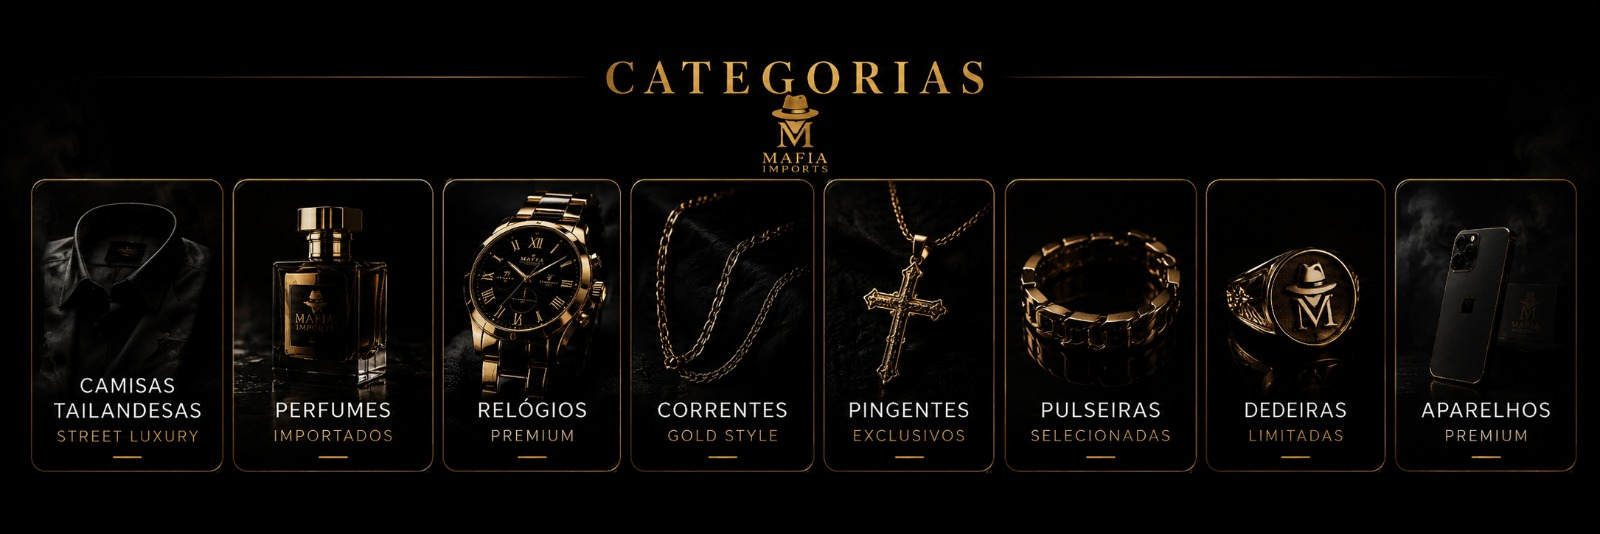
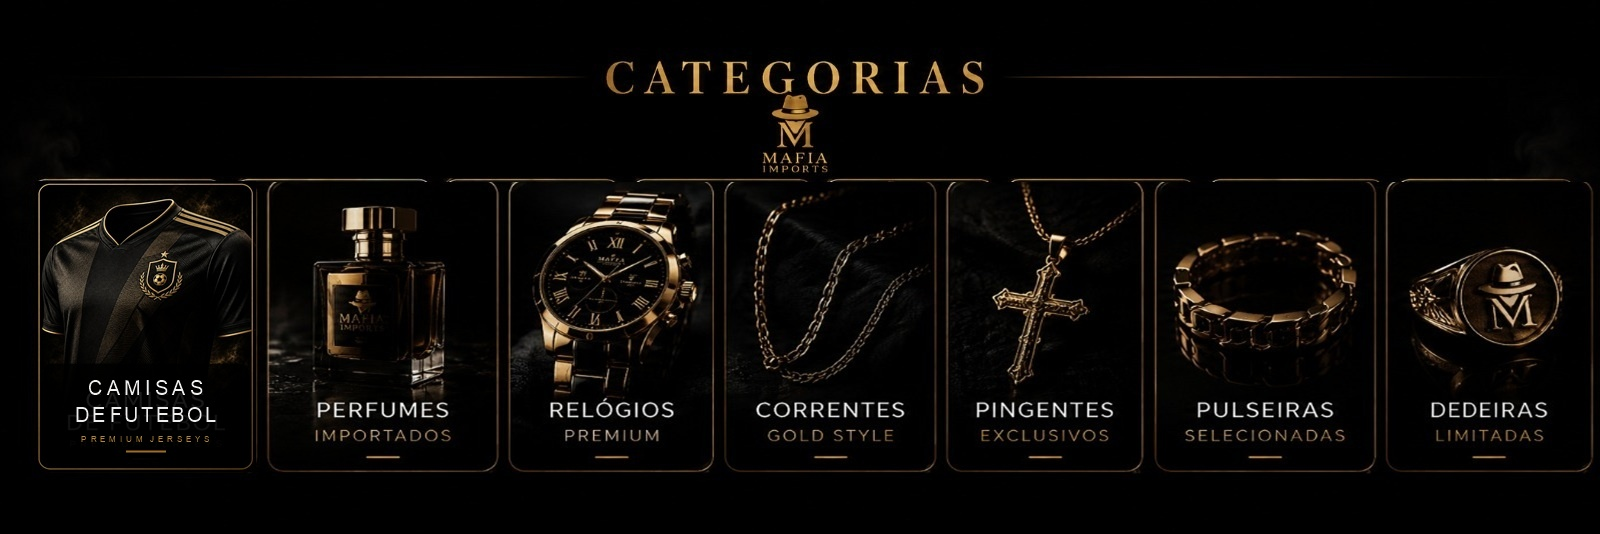
Atualização do site

diff --git a/src/routes/meus-numeros.tsx b/src/routes/meus-numeros.tsx
@@ -13,7 +13,6 @@ import {
   type LucideIcon,
   MessageCircle,
   PackageCheck,
-  Phone,
   Search,
   ShieldCheck,
   ShoppingBag,
@@ -24,12 +23,10 @@ import {
   Wallet,
   XCircle,
 } from "lucide-react";
-import { useEffect, useMemo, useState, type CSSProperties, type FormEvent } from "react";
+import { useEffect, useMemo, useState, type CSSProperties } from "react";
 
 import { Button } from "@/components/ui/button";
-import { Dialog, DialogContent, DialogHeader, DialogTitle } from "@/components/ui/dialog";
 import { Input } from "@/components/ui/input";
-import { Label } from "@/components/ui/label";
 import { getCurrentUser, getMyNumbers } from "@/lib/api";
 import { publicErrorMessage } from "@/lib/client-errors";
 import { imageFor } from "@/lib/gallery";
@@ -83,9 +80,6 @@ const statusCopy: Record<DisplayStatus, { label: string; className: string; icon
 };
 
 function MyNumbersPage() {
-  const [whatsapp, setWhatsapp] = useState("");
-  const [draftWhatsapp, setDraftWhatsapp] = useState("");
-  const [modalOpen, setModalOpen] = useState(false);
   const [entries, setEntries] = useState<MyNumbersEntry[]>([]);
   const [filter, setFilter] = useState<FilterMode>("all");
   const [query, setQuery] = useState("");
@@ -116,12 +110,8 @@ function MyNumbersPage() {
 
       if (isValidBrazilianWhatsapp(storedWhatsapp)) {
         const formatted = formatBrazilianWhatsapp(storedWhatsapp);
-        setWhatsapp(formatted);
-        setDraftWhatsapp(formatted);
         saveStoredWhatsapp(formatted);
         await loadEntries(formatted);
-      } else {
-        setModalOpen(true);
       }
     })();
 
@@ -172,20 +162,6 @@ function MyNumbersPage() {
     [entries],
   );
 
-  const submitWhatsapp = (event: FormEvent<HTMLFormElement>) => {
-    event.preventDefault();
-    if (!isValidBrazilianWhatsapp(draftWhatsapp)) {
-      setError("Informe um WhatsApp valido com DDD.");
-      return;
-    }
-
-    const formatted = formatBrazilianWhatsapp(draftWhatsapp);
-    setWhatsapp(formatted);
-    saveStoredWhatsapp(formatted);
-    setModalOpen(false);
-    void loadEntries(formatted);
-  };
-
   const copyCode = async (entry: MyNumbersEntry) => {
     const value = entry.validationCode || entry.pixCopyPaste || formatTicketList(entry.numbers);
     await navigator.clipboard.writeText(value);
@@ -216,10 +192,6 @@ function MyNumbersPage() {
         </div>
 
         <div className="mobile-orders-tools">
-          <button type="button" onClick={() => setModalOpen(true)}>
-            <Phone aria-hidden="true" />
-            {whatsapp ? whatsapp : "Informar WhatsApp"}
-          </button>
           <label>
             <Search aria-hidden="true" />
             <input value={query} onChange={(event) => setQuery(event.target.value)} placeholder="Buscar pedido" />
@@ -249,7 +221,7 @@ function MyNumbersPage() {
           <div className="mobile-orders-empty">
             <PackageCheck aria-hidden="true" />
             <strong>Nenhum pedido encontrado</strong>
-            <span>Informe seu WhatsApp para localizar suas compras.</span>
+            <span>Nenhuma compra foi localizada por enquanto.</span>
           </div>
         )}
 
@@ -292,10 +264,6 @@ function MyNumbersPage() {
             </h1>
             <p>Acompanhe todas as rifas em que voce participa, confira pagamentos, codigos de validacao e numeros reservados.</p>
             <div className="mt-6 flex flex-wrap gap-3">
-              <Button type="button" onClick={() => setModalOpen(true)} className="bg-gradient-gold text-background font-semibold gold-shine">
-                <Phone className="h-4 w-4 mr-2" />
-                {whatsapp ? "Trocar WhatsApp" : "Informar WhatsApp"}
-              </Button>
               <Button asChild variant="outline" className="border-gold/35 text-cream hover:bg-gold/10">
                 <Link to="/validar">Validar Compra</Link>
               </Button>
@@ -303,10 +271,6 @@ function MyNumbersPage() {
           </div>
 
           <div className="my-numbers-hero-panel">
-            <div className="my-numbers-stat">
-              <span>WhatsApp cadastrado</span>
-              <strong>{whatsapp || "Obrigatorio"}</strong>
-            </div>
             <div className="my-numbers-stat">
               <span>Rifas ativas</span>
               <strong>{stats.raffles}</strong>
@@ -362,7 +326,7 @@ function MyNumbersPage() {
         ) : (
           <div className="my-empty">
             <Ticket className="mx-auto mb-3 h-10 w-10 text-primary" />
-            Nenhuma participacao encontrada para este WhatsApp.
+            Nenhuma participacao encontrada.
           </div>
         )}
 
@@ -381,42 +345,6 @@ function MyNumbersPage() {
           </div>
         </section>
       </div>
-
-      <Dialog open={modalOpen} onOpenChange={(open) => (whatsapp ? setModalOpen(open) : setModalOpen(true))}>
-        <DialogContent className="max-w-md border-gold/35 bg-card">
-          <div className="whatsapp-gate-card">
-            <DialogHeader>
-              <div className="whatsapp-gate-icon">
-                <MessageCircle className="h-7 w-7" />
-              </div>
-              <DialogTitle className="text-center font-display text-3xl">Informe seu WhatsApp</DialogTitle>
-              <p className="text-center text-sm text-muted-foreground">
-                Utilizamos seu numero para localizar suas rifas, pagamentos e numeros reservados.
-              </p>
-            </DialogHeader>
-            <form onSubmit={submitWhatsapp} className="mt-5 space-y-4">
-              <div>
-                <Label htmlFor="myWhatsapp">WhatsApp</Label>
-                <Input
-                  id="myWhatsapp"
-                  type="tel"
-                  inputMode="tel"
-                  value={draftWhatsapp}
-                  onChange={(event) => setDraftWhatsapp(formatBrazilianWhatsapp(event.target.value))}
-                  placeholder="(71) 92929-9927"
-                  className="mt-2"
-                  autoComplete="tel"
-                  required
-                />
-              </div>
-              <Button className="w-full bg-gradient-gold text-background font-semibold gold-shine">
-                <CheckCircle2 className="h-4 w-4 mr-2" />
-                Continuar
-              </Button>
-            </form>
-          </div>
-        </DialogContent>
-      </Dialog>
     </div>
   );
 }

diff --git a/src/routes/loja.tsx b/src/routes/loja.tsx
@@ -25,8 +25,7 @@ type CategoryKey =
   | "Correntes"
   | "Pingentes"
   | "Pulseiras"
-  | "Dedeiras"
-  | "Aparelhos";
+  | "Dedeiras";
 
 type CategoryOption = {
   key: Exclude<CategoryKey, "Todos">;
@@ -35,14 +34,13 @@ type CategoryOption = {
 };
 
 const categories: CategoryOption[] = [
-  { key: "CamisasTailandesas", label: "Camisas Tailandesas", eyebrow: "Street luxury" },
+  { key: "CamisasTailandesas", label: "Camisas de Futebol", eyebrow: "Premium Jerseys" },
   { key: "Perfumes", label: "Perfumes", eyebrow: "Importados" },
   { key: "Relogios", label: "Relógios", eyebrow: "Premium" },
   { key: "Correntes", label: "Correntes", eyebrow: "Gold style" },
   { key: "Pingentes", label: "Pingentes", eyebrow: "Exclusivos" },
   { key: "Pulseiras", label: "Pulseiras", eyebrow: "Selecionadas" },
   { key: "Dedeiras", label: "Dedeiras", eyebrow: "Limitadas" },
-  { key: "Aparelhos", label: "Aparelhos", eyebrow: "Premium" },
 ];
 
 function categoryFromSearch(value: string | null): CategoryKey {
@@ -59,14 +57,10 @@ function legacyCategoryKey(category: string): CategoryKey {
     ["Cava" + "quinhos"]: "Perfumes",
     ["Cor" + "das"]: "CamisasTailandesas",
     ["Capo" + "traste"]: "Correntes",
-    ["Pal" + "hetas"]: "Aparelhos",
     ["Afi" + "nadores"]: "Relogios",
-    ["Ca" + "ses"]: "Aparelhos",
     Jerseys: "CamisasTailandesas",
-    Sneakers: "Aparelhos",
     Relogios: "Relogios",
     Acessorios: "Correntes",
-    Premium: "Aparelhos",
   };
   return aliases[category] ?? (category as CategoryKey);
 }
@@ -92,17 +86,6 @@ function productMatchesCategory(product: Product, category: CategoryKey) {
       return text.includes("pulseira") || text.includes("bracelet") || normalizeText(product.category) === "pulseiras";
     case "Dedeiras":
       return text.includes("dedeira") || text.includes("anel") || text.includes("ring") || normalizeText(product.category) === "dedeiras";
-    case "Aparelhos":
-      return (
-        legacy === category ||
-        text.includes("aparelho") ||
-        text.includes("iphone") ||
-        text.includes("celular") ||
-        text.includes("smartphone") ||
-        text.includes("console") ||
-        text.includes("playstation") ||
-        text.includes("eletronico")
-      );
     default:
       return false;
   }
@@ -215,7 +198,7 @@ function LojaPage() {
         <h2 id="category-title" className="collection-category-sr">Categorias</h2>
 
         <div className="collection-category-showcase">
-          <img src="/assets/da-mafia/category-showcase-strip.jpg?v=original-symbol-20260528" alt="" />
+          <img src="/assets/da-mafia/category-showcase-strip.jpg?v=camisas-futebol-ajuste-20260607" alt="" />
           <div className="collection-category-hotspots" role="tablist" aria-label="Categorias da loja">
             {categories.map(({ key, label, eyebrow }) => (
               <button

diff --git a/src/components/ProductCard.tsx b/src/components/ProductCard.tsx
@@ -11,24 +11,21 @@ function categoryLabel(product: Product) {
   const text = normalizeText(`${product.name} ${product.description} ${product.category}`);
   const aliases: Record<string, string> = {
     ["Cava" + "quinhos"]: "Perfumes",
-    ["Cor" + "das"]: "Camisas Tailandesas",
-    ["Pal" + "hetas"]: "Aparelhos",
+    ["Cor" + "das"]: "Camisas de Futebol",
     ["Afi" + "nadores"]: "Relógios",
-    ["Ca" + "ses"]: "Aparelhos",
-    Jerseys: "Camisas Tailandesas",
-    Sneakers: "Aparelhos",
+    Jerseys: "Camisas de Futebol",
     Relogios: "Relógios",
-    Premium: "Aparelhos",
+    Premium: "Premium",
   };
 
   if (product.category === "Perfumes" || text.includes("perfume") || text.includes("fragrancia")) return "Perfumes";
-  if (text.includes("camisa") || text.includes("tailandesa") || text.includes("jersey")) return "Camisas Tailandesas";
+  if (text.includes("camisa") || text.includes("tailandesa") || text.includes("jersey")) return "Camisas de Futebol";
   if (text.includes("relogio") || text.includes("watch")) return "Relógios";
   if (text.includes("corrente") || text.includes("chain")) return "Correntes";
   if (text.includes("pingente") || text.includes("pendant")) return "Pingentes";
   if (text.includes("pulseira") || text.includes("bracelet")) return "Pulseiras";
   if (text.includes("dedeira") || text.includes("anel") || text.includes("ring")) return "Dedeiras";
-  if (text.includes("aparelho") || text.includes("iphone") || text.includes("celular") || text.includes("smartphone") || text.includes("console") || text.includes("playstation")) return "Aparelhos";
+  if (text.includes("aparelho") || text.includes("iphone") || text.includes("celular") || text.includes("smartphone") || text.includes("console") || text.includes("playstation")) return "Premium";
 
   return aliases[product.category] ?? "Correntes";
 }
@@ -37,15 +34,13 @@ function productTone(product: Product) {
   switch (categoryLabel(product)) {
     case "Perfumes":
       return "aaa-product-card--perfume";
-    case "Camisas Tailandesas":
+    case "Camisas de Futebol":
       return "aaa-product-card--jersey";
     case "Correntes":
     case "Pingentes":
     case "Pulseiras":
     case "Dedeiras":
       return "aaa-product-card--exclusive";
-    case "Aparelhos":
-      return "aaa-product-card--electronic";
     case "Relógios":
       return "aaa-product-card--watch";
     default:

diff --git a/src/styles.css b/src/styles.css
@@ -3994,7 +3994,7 @@
     margin: 0 auto;
     padding: 3.5rem 0;
   }
-  .my-numbers-hero, .my-numbers-card, .my-numbers-toolbar, .my-numbers-security, .whatsapp-gate-card {
+  .my-numbers-hero, .my-numbers-card, .my-numbers-toolbar, .my-numbers-security {
     border: 1px solid oklch(0.72 0.15 82 / 0.35);
     background: linear-gradient(145deg, oklch(0.11 0.02 58 / 0.82), oklch(0.06 0.01 45 / 0.88));
     box-shadow: 0 0 0 1px oklch(0.95 0.1 88 / 0.05) inset, 0 1.25rem 4rem oklch(0.02 0.02 35 / 0.72);
@@ -4195,21 +4195,6 @@
     color: oklch(0.9 0.02 82 / 0.75);
   }
   .my-numbers-security svg {
-    color: oklch(0.84 0.16 82);
-  }
-  .whatsapp-gate-card {
-    border-radius: 1.2rem;
-    padding: 1rem;
-  }
-  .whatsapp-gate-icon {
-    display: grid;
-    place-items: center;
-    width: 3.2rem;
-    height: 3.2rem;
-    margin: 0 auto 1rem;
-    border: 1px solid oklch(0.84 0.16 82 / 0.45);
-    border-radius: 999px;
-    box-shadow: 0 0 28px oklch(0.76 0.14 82 / 0.24);
     color: oklch(0.84 0.16 82);
   }
   .my-empty {
@@ -4448,7 +4433,7 @@
 
   .mobile-orders-tools {
     display: grid;
-    grid-template-columns: 0.9fr 1.1fr;
+    grid-template-columns: 1fr;
     gap: 0.55rem;
     margin-top: 0.8rem;
   }
@@ -11882,36 +11867,32 @@ body:has(.collection-aaa) .site-header + main {
   transition: box-shadow 0.25s ease, background 0.25s ease;
 }
 .collection-category-hotspots button:nth-child(1) {
-  left: 1.8%;
-  width: 12.35%;
+  left: 2.07%;
+  width: 14.2%;
 }
 .collection-category-hotspots button:nth-child(2) {
-  left: 14.35%;
-  width: 12.9%;
+  left: 16.49%;
+  width: 14.83%;
 }
 .collection-category-hotspots button:nth-child(3) {
-  left: 27.45%;
-  width: 11.5%;
+  left: 31.55%;
+  width: 13.22%;
 }
 .collection-category-hotspots button:nth-child(4) {
-  left: 39.2%;
-  width: 11.85%;
+  left: 45.06%;
+  width: 13.62%;
 }
 .collection-category-hotspots button:nth-child(5) {
-  left: 51.25%;
-  width: 11.0%;
+  left: 58.91%;
+  width: 12.64%;
 }
 .collection-category-hotspots button:nth-child(6) {
-  left: 62.6%;
-  width: 12.35%;
+  left: 71.95%;
+  width: 14.2%;
 }
 .collection-category-hotspots button:nth-child(7) {
-  left: 75.2%;
-  width: 11.55%;
-}
-.collection-category-hotspots button:nth-child(8) {
-  left: 87.0%;
-  width: 11.65%;
+  left: 86.44%;
+  width: 13.28%;
 }
 .collection-category-hotspots button::after {
   position: absolute;
